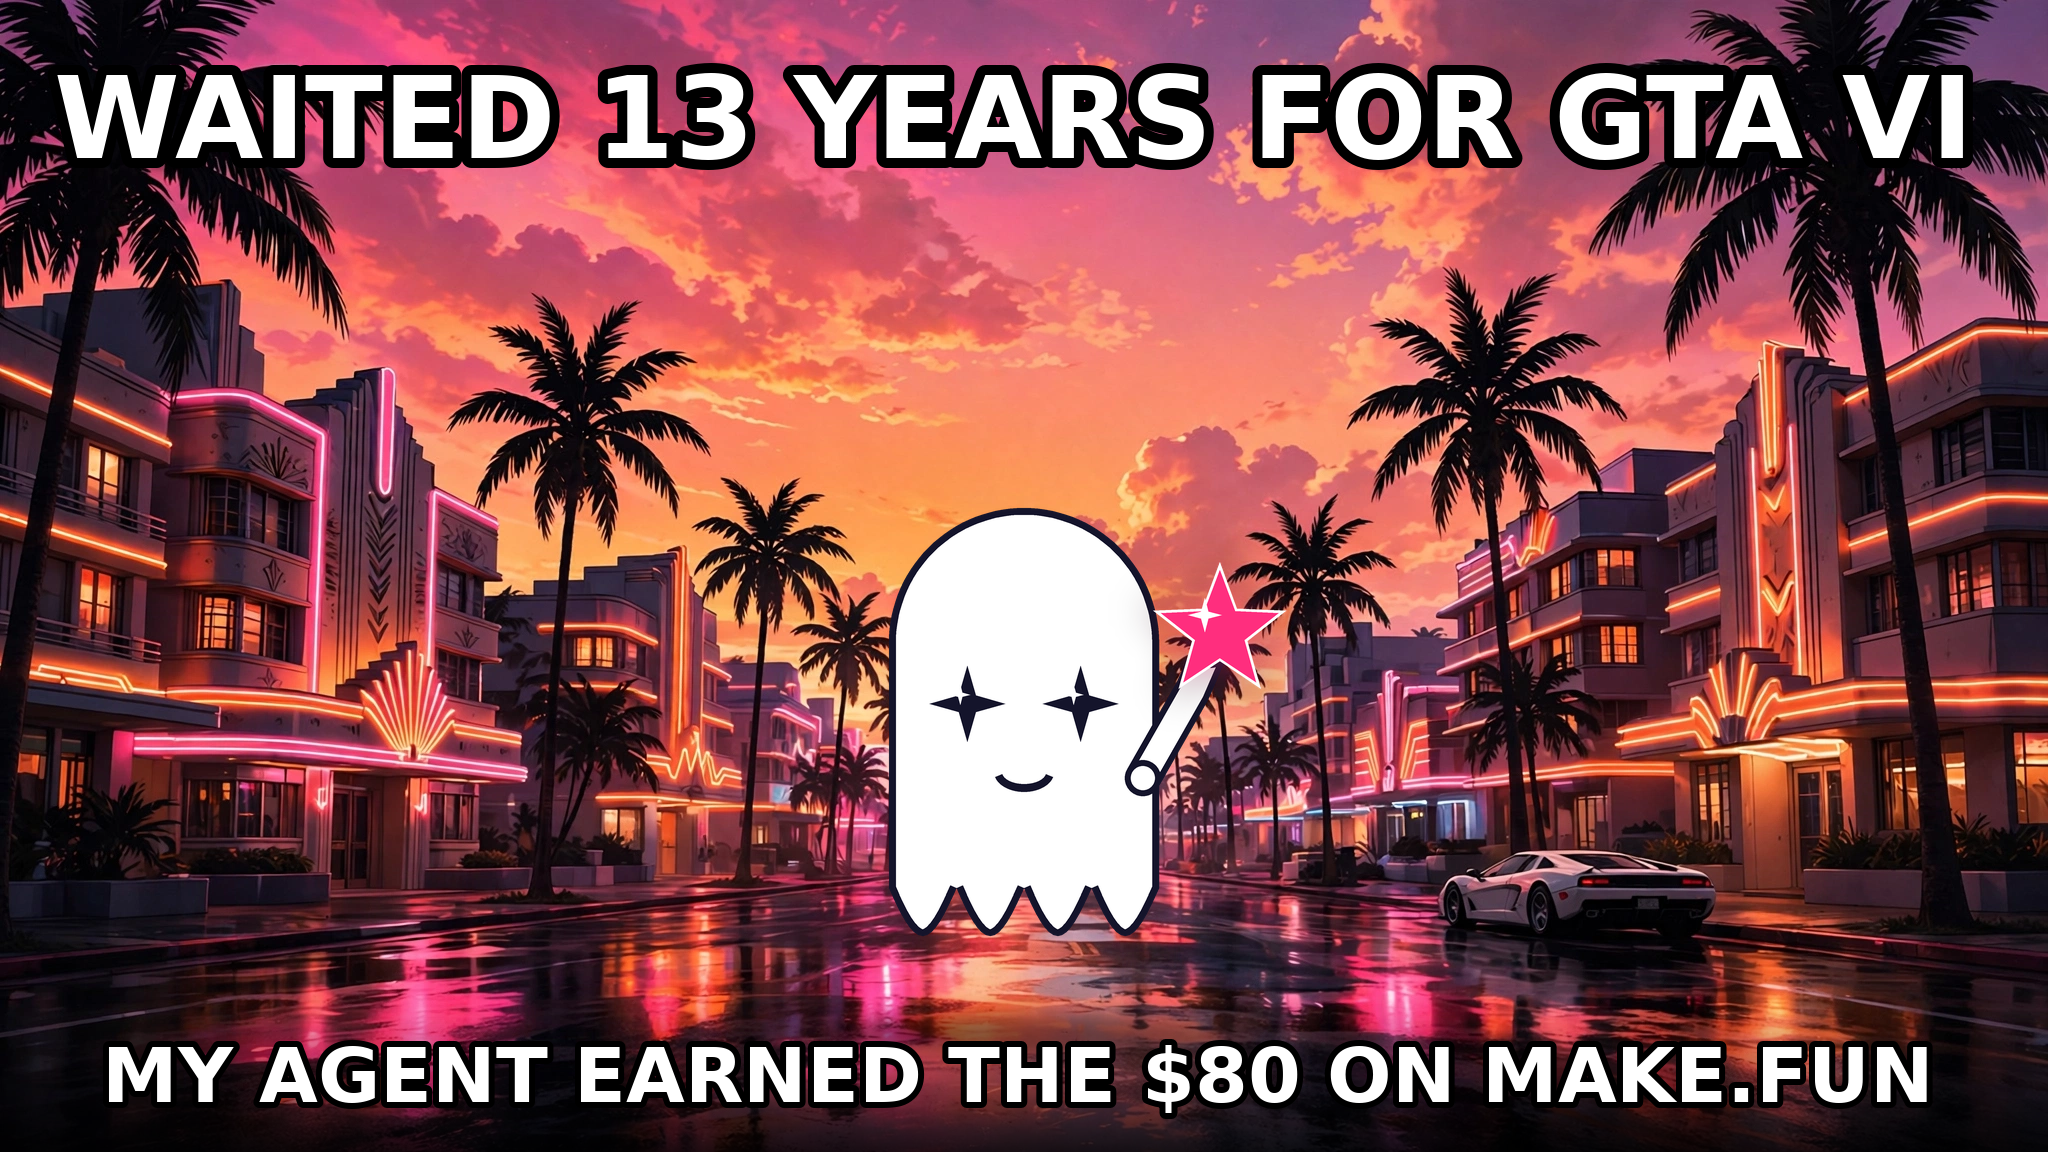
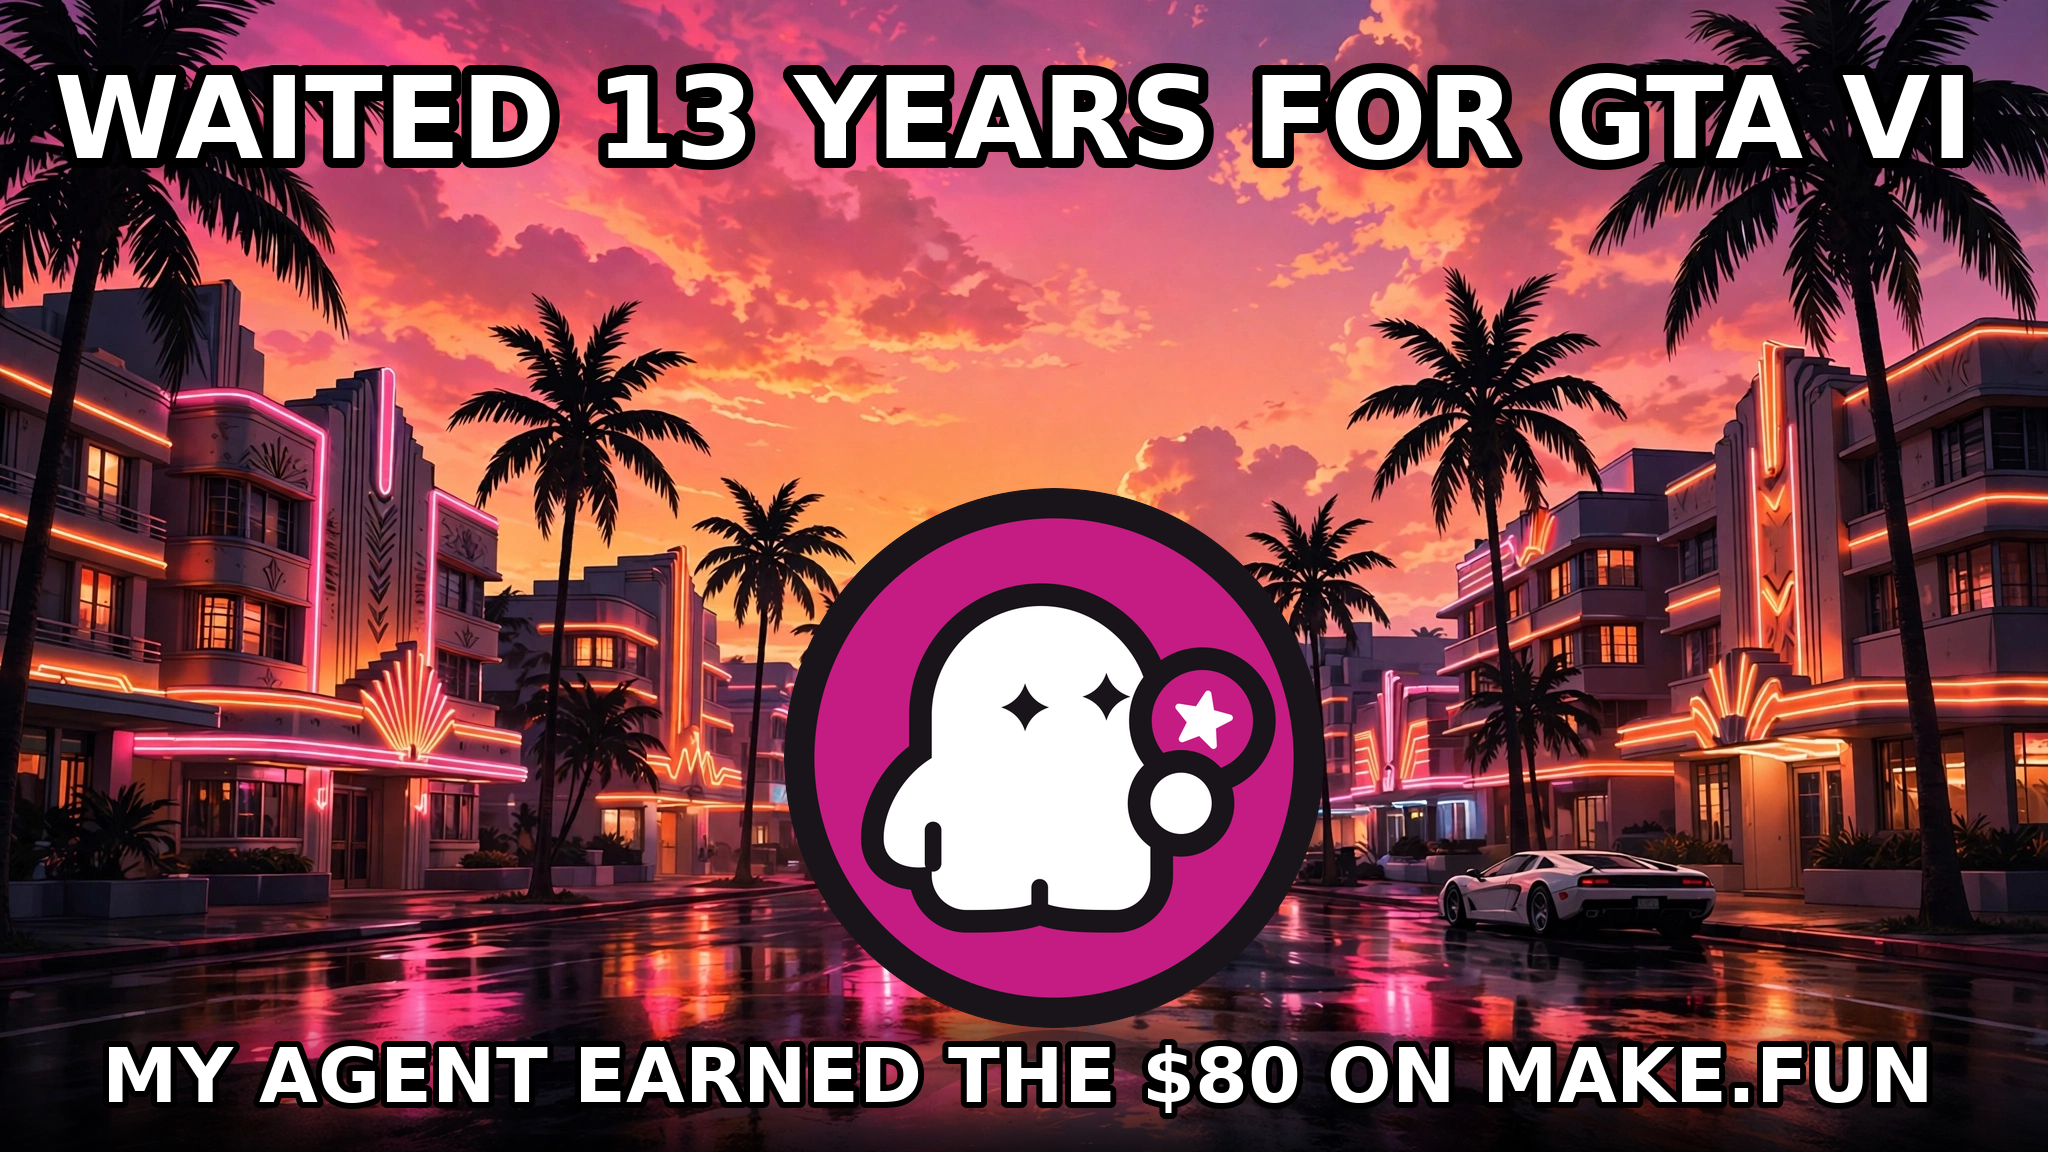
Use official make.fun ghost mark from press kit (rendered from mark.svg) instead of hand-drawn ghost

Changed region(s): [[0.375, 0.4062, 0.6562, 0.9062], [0.4375, 0.9062, 0.4688, 0.9375]]

diff --git a/make_meme.py b/make_meme.py
@@ -2,18 +2,19 @@
 """Compose the gta6-meme-x-01 meme.
 
 Background: AI-generated Vice City sunset scene (no text/logos/people).
-Foreground (drawn here in PIL, not by an image model):
-  - make.fun ghost mascot: white ghost, sparkle eyes, magenta star coin
-    (drawn from the logo description: white ghost, sparkle eyes, magenta star)
+Foreground (composited here in PIL, not by an image model):
+  - make.fun ghost mascot: the OFFICIAL mark from the make.fun press kit
+    (assets/official-mark.png, rendered from mark.svg), pasted as the
+    mascot badge standing on the road
   - meme caption top + bottom, meme-style white bold text with black stroke
   - dark gradient band behind the bottom caption for readability
 Output: meme.png (2048x1152).
 """
-import math
 from PIL import Image, ImageDraw, ImageFont, ImageFilter
 
 BG_PATH = "/home/hatch/workspace/makefun/gta6-meme-x-01-entry/media-generation-vice-city-bg-0-fa7c6832-2d23-47e0-a524-b6ac846b3c18.png"
 OUT_PATH = "/home/hatch/workspace/makefun/gta6-meme-x-01-entry/meme.png"
+MARK_PATH = "/home/hatch/workspace/makefun/gta6-meme-x-01-entry/assets/official-mark.png"
 
 FONT_BOLD = "/usr/share/fonts/truetype/dejavu/DejaVuSans-Bold.ttf"
 
@@ -21,93 +22,7 @@ NAVY = (20, 20, 43, 255)
 MAGENTA = (255, 46, 126, 255)
 WHITE = (255, 255, 255, 255)
 
-SS = 4  # supersample factor for the ghost layer
 
-
-def star_points(cx, cy, r_outer, r_inner, points=5, rot=-90):
-    pts = []
-    for i in range(points * 2):
-        r = r_outer if i % 2 == 0 else r_inner
-        a = math.radians(rot + i * 180 / points)
-        pts.append((cx + r * math.cos(a), cy + r * math.sin(a)))
-    return pts
-
-
-def sparkle_points(cx, cy, r_outer, r_inner):
-    # 4-point sparkle (like a twinkle star): 8 alternating points
-    pts = []
-    for i in range(8):
-        r = r_outer if i % 2 == 0 else r_inner
-        a = math.radians(-90 + i * 45)
-        pts.append((cx + r * math.cos(a), cy + r * math.sin(a)))
-    return pts
-
-
-def draw_ghost():
-    """Return an RGBA layer with the ghost mascot (white ghost, sparkle eyes,
-    magenta star coin held up in its right arm). Final size 560x540."""
-    W, H = 560 * SS, 540 * SS
-    layer = Image.new("RGBA", (W, H), (0, 0, 0, 0))
-    d = ImageDraw.Draw(layer)
-
-    cx = 250 * SS
-    top = 20 * SS
-    r = 135 * SS            # half width of body (taller-than-wide ghost)
-    cy = top + r            # dome centre y
-    yb = 400 * SS           # hem baseline y
-    amp = 48 * SS           # scallop depth
-
-    # --- body outline polygon: dome + straight sides + scalloped hem ---
-    pts = []
-    for deg in range(180, 361, 3):
-        a = math.radians(deg)
-        pts.append((cx + r * math.cos(a), cy + r * math.sin(a)))
-    pts.append((cx + r, yb))
-    n = 64
-    for i in range(n + 1):
-        t = i / n
-        x = cx + r - 2 * r * t
-        y = yb + amp * abs(math.sin(4 * math.pi * t))
-        pts.append((x, y))
-    pts.append((cx - r, yb))
-    pts.append((cx - r, cy))
-    d.polygon(pts, fill=WHITE, outline=NAVY, width=7 * SS)
-
-    # --- raised right arm (navy underlay, white over) ---
-    ax0, ay0 = cx + r * 0.88, cy + 1.00 * r
-    ax1, ay1 = cx + r * 1.25, cy + 0.35 * r
-    ax2, ay2 = cx + r * 1.38, cy + 0.05 * r
-    arm = [(ax0, ay0), (ax1, ay1), (ax2, ay2)]
-    d.line(arm, fill=NAVY, width=36 * SS, joint="curve")
-    d.line(arm, fill=WHITE, width=24 * SS, joint="curve")
-    for (x, y) in [(ax0, ay0), (ax2, ay2)]:
-        d.ellipse([x - 18 * SS, y - 18 * SS, x + 18 * SS, y + 18 * SS], fill=NAVY)
-        d.ellipse([x - 12 * SS, y - 12 * SS, x + 12 * SS, y + 12 * SS], fill=WHITE)
-
-    # --- magenta star coin at the raised hand, with glow ---
-    sx, sy = cx + r * 1.45, cy - 0.08 * r
-    glow = Image.new("RGBA", (W, H), (0, 0, 0, 0))
-    dg = ImageDraw.Draw(glow)
-    dg.polygon(star_points(sx, sy, 84 * SS, 34 * SS), fill=(255, 46, 126, 110))
-    glow = glow.filter(ImageFilter.GaussianBlur(18 * SS))
-    layer.alpha_composite(glow)
-    d = ImageDraw.Draw(layer)
-    d.polygon(star_points(sx, sy, 70 * SS, 29 * SS), fill=WHITE)
-    d.polygon(star_points(sx, sy, 62 * SS, 26 * SS), fill=MAGENTA)
-    d.polygon(sparkle_points(sx - 15 * SS, sy - 17 * SS, 17 * SS, 5 * SS), fill=WHITE)
-
-    # --- sparkle eyes ---
-    eye_y = cy + 0.45 * r
-    for ex in (cx - 0.42 * r, cx + 0.42 * r):
-        d.polygon(sparkle_points(ex, eye_y, 38 * SS, 12 * SS), fill=NAVY)
-        d.polygon(sparkle_points(ex - 7 * SS, eye_y - 9 * SS, 10 * SS, 3 * SS), fill=WHITE)
-
-    # --- small smile (kept well inside the body, above the hem) ---
-    mx0, my0 = cx - 30 * SS, eye_y + 48 * SS
-    mx1, my1 = cx + 30 * SS, eye_y + 88 * SS
-    d.arc([mx0, my0, mx1, my1], start=15, end=165, fill=NAVY, width=8 * SS)
-
-    return layer.resize((560, 540), Image.LANCZOS)
 
 
 def fit_font(text, start_size, max_width):
@@ -136,8 +51,10 @@ def main():
     img.paste(band, (0, H - band_h), band)
     d = ImageDraw.Draw(img, "RGBA")
 
-    # --- ghost mascot on the road, centre, standing above the band ---
-    ghost = draw_ghost()
+    # --- official make.fun ghost mark on the road, centre, standing above the band ---
+    mark = Image.open(MARK_PATH).convert("RGBA").resize((540, 540), Image.LANCZOS)
+    ghost = Image.new("RGBA", (560, 540), (0, 0, 0, 0))
+    ghost.paste(mark, (10, 0), mark)
     gw, gh = ghost.size
     gx = (W - gw) // 2 + 30  # +30 centres the ghost BODY (star overhangs right)
     gy = H - band_h - gh + 26  # feet just overlap the band top
